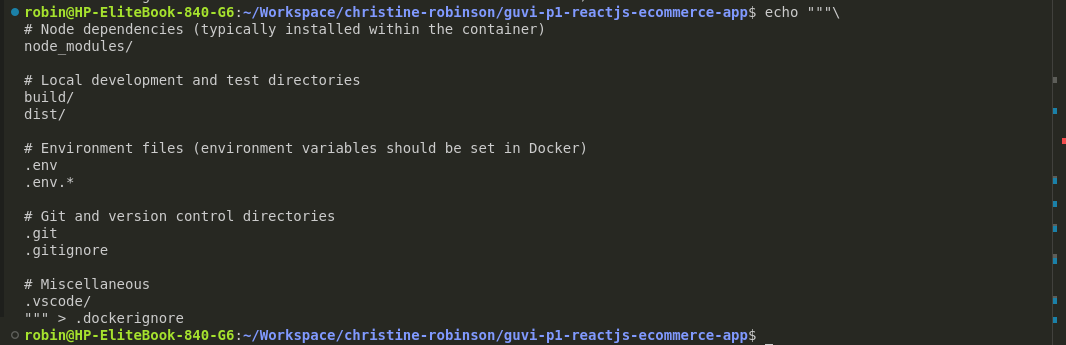
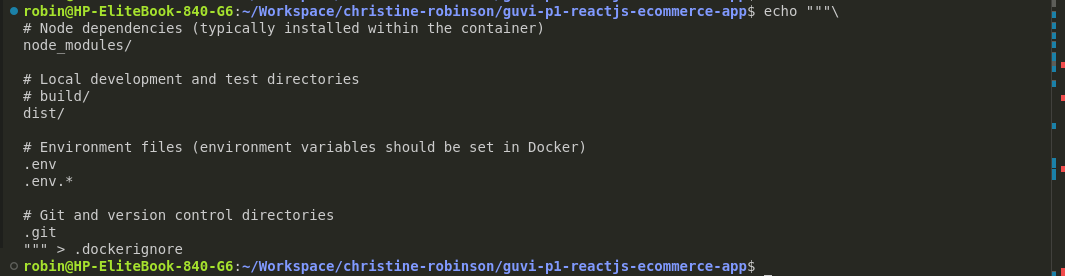
project 1 docs updated

diff --git a/projects/01-reactjs-ecommerce-application-deployment/project/README.md b/projects/01-reactjs-ecommerce-application-deployment/project/README.md
@@ -118,7 +118,7 @@ echo """\
 node_modules/
 
 # Local development and test directories
-build/
+# build/
 dist/
 
 # Environment files (environment variables should be set in Docker)
@@ -193,3 +193,54 @@ git push --set-upstream origin dev
 ![Commit dev changes](./images/33-commit-dev-changes.png)
 
 ![Publish new branch](./images/34-publish-dev-branch.png)
+
+#### 3. Automate the Build & Deploy process using Bash Scripts
+
+**Step 1:** Create ***build.sh*** to automate the ***build*** a docker image & ***push*** to ***DockerHub*** operations
+
+```bash
+echo """
+
+""" > build.sh
+```
+
+![create build.sh by terminal]()
+
+![build.sh output]()
+
+**Step 2:** Create ***deploy.sh*** to automate the deployment with ***docker compose***
+
+```bash
+echo """\
+
+""" > deploy.sh
+```
+
+![create deploy.sh by terminal]()
+
+![deploy.sh output]()
+
+**Step 3:** Commit the changes & push to ***GitHub***
+
+```bash
+# Stage Changes
+git add .
+
+# Commit Changes
+git commit -m "Bash Scripts"
+
+# Publish to dev branch
+git push dev
+```
+
+#### 4. CICD with Jenkins
+
+> To install Jenkins follow the steps in the [Jenkins Installation on Ubuntu](https://www.jenkins.io/doc/book/installing/linux/#debianubuntu) from the official Jenkins Documentation.
+
+- Created an **EC2 Instance** in the name of ***guvi-p1-jenkins*** with ***ubuntu*** from ***AWS*** (Dedicated for ***Jenkins***)
+
+- Enabled ports 22(ssh) & 8080(Jenkins Dashboard) in the ***SG (Security Group)*** attached to the ***guvi-p1-jenkins*** instance
+
+- Connect to the ***guvi-p1-jenkins*** EC2 via SSH.
+
+- Installed Java & Jenkins
